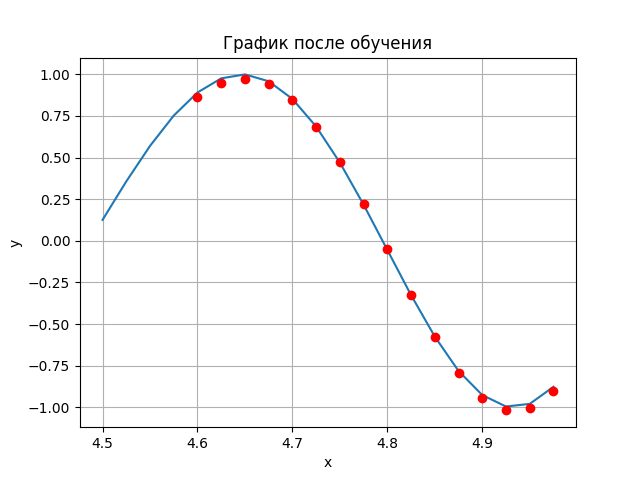
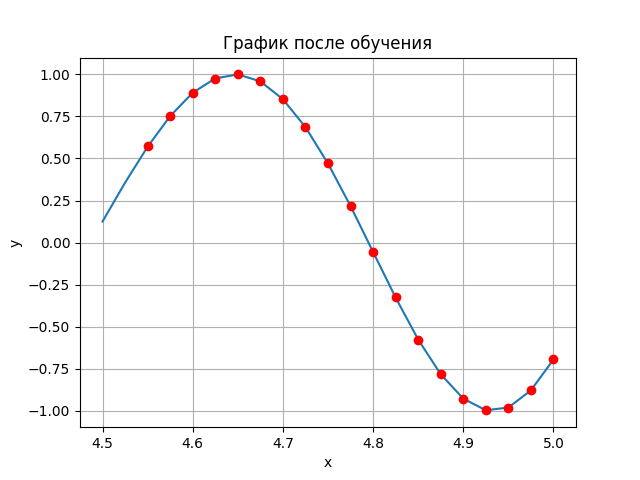
fix 3 lab

diff --git a/lab3/neuron.py b/lab3/neuron.py
@@ -19,87 +19,92 @@ class Neuron(object):
         self.N = N
         self.number_of_epochs = number_of_epochs
 
+        self.x_train = [a + i * (b - a) / N for i in range(N + 1)]
+        self.x_predict = [b + i * (b - a) / N for i in range(1, N)]
+        self.y_train = [self.f(x) for x in self.x_train]
+        self.y_predict = [self.f(x) for x in self.x_predict]
+
         self.weights = [0 for _ in range(size_p + 1)]
-        self.real_values = None
-        self.learning_values = None
 
-    def get_X(self, a=None, b=None, N=None) -> List:
-        points = []
-        if a is None and b is None:
-            step_in_interval = (self.b - self.a) / self.N
-            for i in range(self.N):
-                points.append(self.a + i * step_in_interval)
-        else:
-            step_in_interval = (b - a) / N
-            for i in range(N):
-                points.append(a + i * step_in_interval)
+    @staticmethod
+    def f(x):
+        return np.sin(2 * np.sqrt(np.exp(x)))
 
-        return points
+    def get_X_predict(self) -> List:
+        return self.x_train[-1:] + self.x_predict
 
-    def get_Y(self, a=None, b=None, N=None) -> List:
-        points_Y = []
-        if a is None and b is None:
-            points_X = self.get_X()
-        else:
-            points_X = self.get_X(a, b, N)
+    def get_Y_predict(self) -> List:
+        return self.y_train[-self.p - 1:] + self.y_predict
 
-        for x in points_X:
-            points_Y.append(np.sin(2 * np.sqrt(np.exp(x))))
+    def get_windows(self, x: List):
+        return [[x[i] for i in range(bias, bias + self.p)] for bias in range(len(x) - self.p)]
 
-        return points_Y
-
-    def get_delta(self, idx: int):
-        return self.real_values[idx] - self.learning_values[idx]
-
-    def get_epsilon(self):
-        epsilon = 0
-        for i in range(self.p, self.N):
-            delta = self.get_delta(i)
-            epsilon += delta ** 2
-        return np.sqrt(epsilon)
+    def get_predict_windows(self):
+        return [[self.y_train[i] for i in range(bias, bias + self.p)]
+                for bias in range(len(self.y_train) - self.p)]
 
     def learning(self):
-        self.real_values = self.get_Y()
-        self.learning_values = [0 for _ in range(len(self.real_values))]
+        windows = self.get_windows(self.y_train)
+        targets = self.y_train[self.p:]
         epsilon = 0
+        learning_values = []
         for epoch in range(self.number_of_epochs):
-            for point in range(self.p, self.N):
-                net = self.weights[self.p]
-                for i in range(self.p):
-                    net += self.weights[i] * self.real_values[point - self.p + i]
-                self.learning_values[point] = net
-                for k in range(self.p):
-                    self.weights[k] += self.learning_rate * self.get_delta(point) * self.real_values[point - self.p + k]
+            learning_values = []
+            total_error = 0
+            for (window, target) in zip(windows, targets):
+                x = [1] + window
+                out = sum([self.weights[i]*x[i] for i in range(len(self.weights))])
+                learning_values.append(out)
+                error = target - out
+                for i in range(0, len(self.weights)):
+                    self.weights[i] += self.learning_rate * error * x[i]
+                total_error += pow(error, 2)
+            epsilon = np.sqrt(total_error)
 
-            epsilon = self.get_epsilon()
-            if epsilon < 0.001:
-                print(epsilon)
-                break
+        print(epsilon)
+        print(self.weights)
 
-        print(f"Epoch: {self.number_of_epochs}, eps: {epsilon}, weights: {self.weights}")
-
-    def predict(self):
-        for i in range(self.N, 2 * self.N):
-            net = self.weights[self.p]
-            for j in range(self.p):
-                net += self.weights[j] * self.learning_values[i - self.p + j]
-            self.learning_values.append(net)
-
-    def plot_after_learning(self):
         plt.title("График после обучения")
         plt.xlabel("x")
         plt.ylabel("y")
         plt.grid()
-        X = self.get_X()
-        plt.plot(X, self.real_values, X[self.p:], self.learning_values[self.p:], 'ro')
+        x_train = self.x_train[self.p:]
+        plt.plot(self.x_train, self.y_train, x_train, learning_values, 'ro')
         plt.show()
 
-    def plot_predict(self):
+    def predict(self):
+        x_ = self.get_X_predict()
+        y = self.get_Y_predict()
+        windows = self.get_windows(y)
+        predictions = []
+        for window in windows:
+            x = [1] + window
+            prediction = sum([self.weights[i]*x[i] for i in range(len(self.weights))])
+            predictions.append(prediction)
+
+        y = y[self.p:]
         plt.title("График на следующем интервале")
         plt.xlabel("x")
         plt.ylabel("y")
         plt.grid()
-        X = self.get_X(self.a, self.b * 2 - self.a, self.N * 2)
-        Y = self.get_Y(self.a, self.b * 2 - self.a, self.N * 2)
-        plt.plot(X, Y, X[self.p:], self.learning_values[self.p:], 'ro')
+        plt.plot(x_, y, x_, predictions, 'ro')
         plt.show()
+
+    # def plot_after_learning(self):
+    #     plt.title("График после обучения")
+    #     plt.xlabel("x")
+    #     plt.ylabel("y")
+    #     plt.grid()
+    #     X = self.get_X()
+    #     plt.plot(X, self.real_values, X[self.p:], self.learning_values[self.p:], 'ro')
+    #     plt.show()
+
+    # def plot_predict(self):
+    #     plt.title("График на следующем интервале")
+    #     plt.xlabel("x")
+    #     plt.ylabel("y")
+    #     plt.grid()
+    #     X = self.get_X(self.a, self.b * 2 - self.a, self.N * 2)
+    #     Y = self.get_Y(self.a, self.b * 2 - self.a, self.N * 2)
+    #     plt.plot(X, Y, X[self.p:], self.learning_values[self.p:], 'ro')
+    #     plt.show()

diff --git a/lab3/main.py b/lab3/main.py
@@ -1,8 +1,6 @@
 from neuron import Neuron
 
 if __name__ == '__main__':
-    n = Neuron(4.5, 5, 4, 20, 0.1, 10000)
+    n = Neuron(4.5, 5, 2, 20, 0.5, 1000)
     n.learning()
-    n.plot_after_learning()
     n.predict()
-    n.plot_predict()
